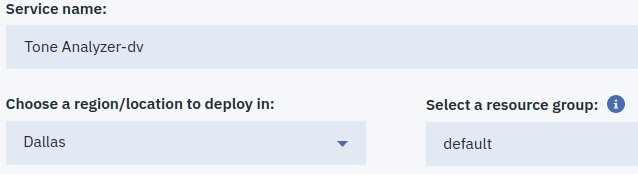
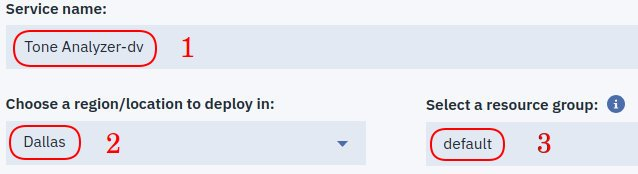
update README.md

diff --git a/README.md b/README.md
@@ -7,13 +7,13 @@ MailBox Analyzer is an application using [Watson Developer Cloud Java SDK](https
 ## Table of Contents
 
 - [Application Flow](#application-flow)
-
+- [How to read this tutorial](#how-to-read-this-tutorial)
+- [Getting started](#getting-started)
 - [Setup environment in IBM Cloud](#setup-environment-in-ibm-cloud)
   * [Create a credential file](#create-a-credential-file)
   * [Setup Tone Analyzer service](#setup-tone-analyzer-service)
   * [Setup Natural Language Understanding service](#setup-natural-language-understanding-service)
   * [Setup Visual Recognition service](#setup-visual-recognition-service)  
-
 - [Setup application](#setup-application)
   * [Install needed softwares](#install-needed-softwares)
   * [Check everything is installed properly](#check-everything-is-installed-properly)
@@ -39,6 +39,28 @@ MailBox Analyzer is an application using [Watson Developer Cloud Java SDK](https
 ![Flow](images/appFlow.jpg)
 
 <br>
+
+### How to read this tutorial
+
+Steps will be achieved in different ways. Keep in mind that:
+
+- ![](res/web.png) means: use a web browser
+- ![](res/notepad.png) means: use a text editor 
+- ![](res/win.png) means: for Windows platform
+- ![](res/mac.png) means: for MacOSX platform
+- ![](res/tux.png) means: for Linux platform
+- ![](res/cmd.png) means: use a command prompt under Windows platform
+- ![](res/term.png) means: use a shell under MacOSX or Linux platform
+
+### Getting started
+
+![](res/web.png)
+
+If not already done, right+click [IBM Cloud](https://cloud.ibm.com/registration) and register with a **valid email address**
+
+Or right+click [IBM Cloud](https://cloud.ibm.com/login) to login
+
+
 
 ### Setup environment in IBM Cloud
 
@@ -94,11 +116,11 @@ Choose your favorite text editor, create a new file, paste the following content
 }
 ```
 
-, save it as **vcap.json** and :warning: **keep it opened**.
+, save it as **vcap.json** and :warning: **keep it opened** for future use.
 
 <br>
 
-:information_source: Let's create our 3 Watson services
+:information_source: Let's create the 3 Watson services needed
 
 ![](res/web.png)
 
@@ -116,7 +138,15 @@ To instantiate **Tone Analyzer** service click
 
 Wait for followings panels to be available:
 
+> :bulb:
+>
+> 1. Service name can be anything
+> 2. Region could be any region available in the list
+> 3. keep **default** as resource group
+
 ![](guiScreenShots/ta1.jpg)
+
+
 
 ![](guiScreenShots/ta2.jpg)
 
@@ -335,7 +365,7 @@ and unzip it:
 
 #### Install WAS Liberty Kernel
 
-Unzip **wlp-kernel-19.0.0.6.zip**
+Unzip WAS Liberty Kernel product (e.g. **wlp-kernel-19.0.0.6.zip)**
 
 :bulb: Feel free to unzip with any GUI tool but be sure to unzip in your **home directory**.
 	
@@ -393,12 +423,14 @@ to configure defaultServer.
 
 <br>	
 	
+
 #### Add application to defaultServer
 
 ![](res/notepad.png) ![](res/win.png)
 
 Create **wlp/usr/servers/defaultServer/apps/app.war.xml** with the following content:
 :warning: Substitute **%HOMEPATH%** with the **full path** of your home directory. 
+
 ```
 <?xml version="1.0" encoding="UTF-8"?>
 <archive>
@@ -509,7 +541,7 @@ When app is loaded:
 
 1. Click on ![](res/compose.png) to compose a mail and when done click ![](res/send.png) to send it to server.
 2. Click on ![](res/envelope.png) to get your mail from server.
-3. Once mails are displayed, click ![](res/cogwheels.png) to send mail for analysis.
+3. Once mail is displayed, click ![](res/cogwheels.png) to send mail for analysis.
 4. When Watson returned, **3 new tabs** (one per service) should appear and are ready to browse. ![](res/watsontabs.png)
 
 <br>
@@ -552,8 +584,6 @@ Open each services **More Actions** popup menu and choose **Delete Service**
 [Documentation](https://console.bluemix.net/docs/services/visual-recognition/getting-started.html)
 [Dashboard](https://www.ibm.com/smarterplanet/us/en/ibmwatson/developercloud/dashboard/en/visual-recognition-dashboard.html)
 [Github](https://github.com/watson-developer-cloud)
-[Tool](https://watson-visual-recognition.ng.bluemix.net/)
-
 <br>
 
 <!--
